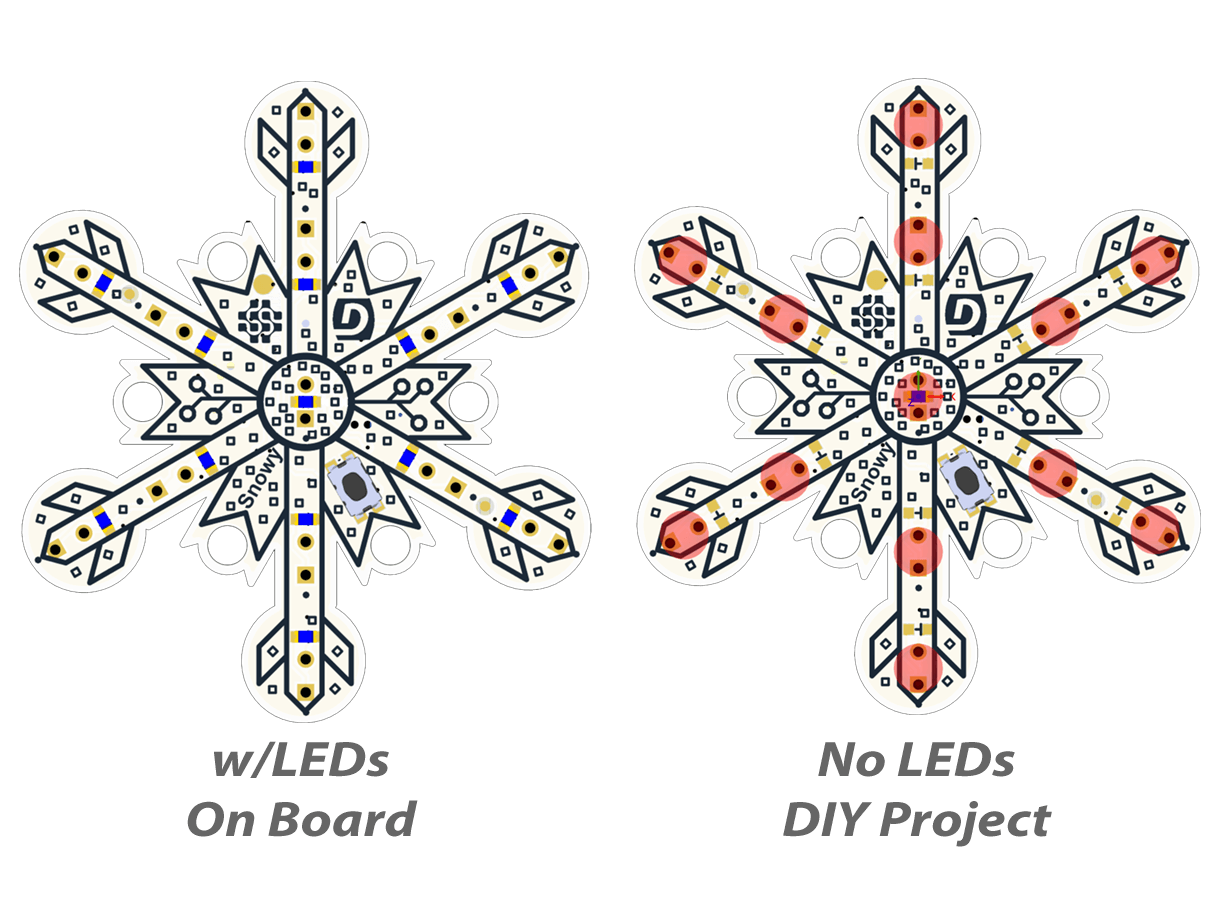
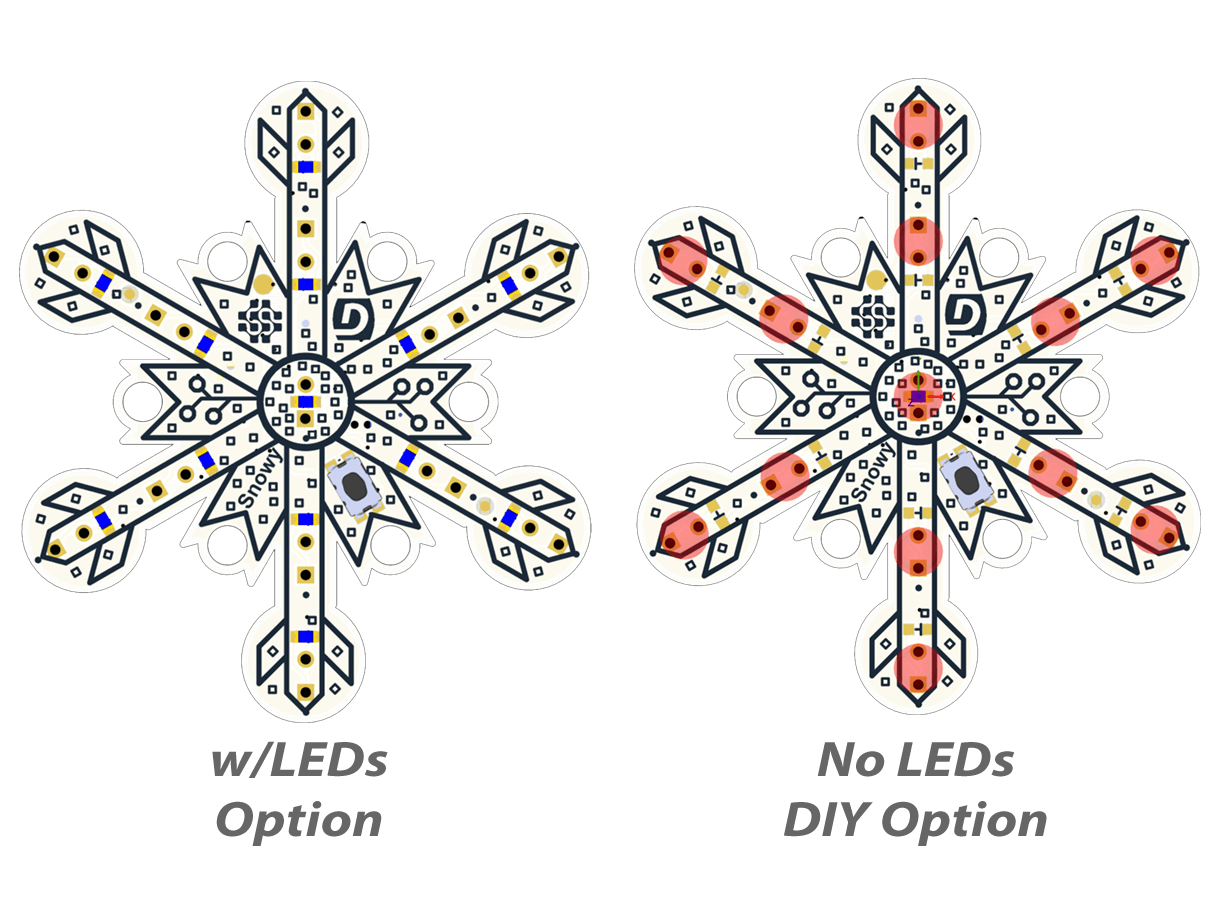
Update Snowy image description, add Cubicle

Changed region(s): [[0.1546, 0.8089, 0.3401, 0.9333], [0.7111, 0.8711, 0.8657, 0.9333], [0.6493, 0.9022, 0.6802, 0.9333]]

diff --git a/sidebars.js b/sidebars.js
@@ -67,6 +67,7 @@ const sidebars = {
             "products/spghizzy-d",
             "products/sptree-b",
             "products/spsnowy-a",
+            "products/spcubicle-a",
             "products/spchrono-a",
             "products/sppiano-a"
           ],
